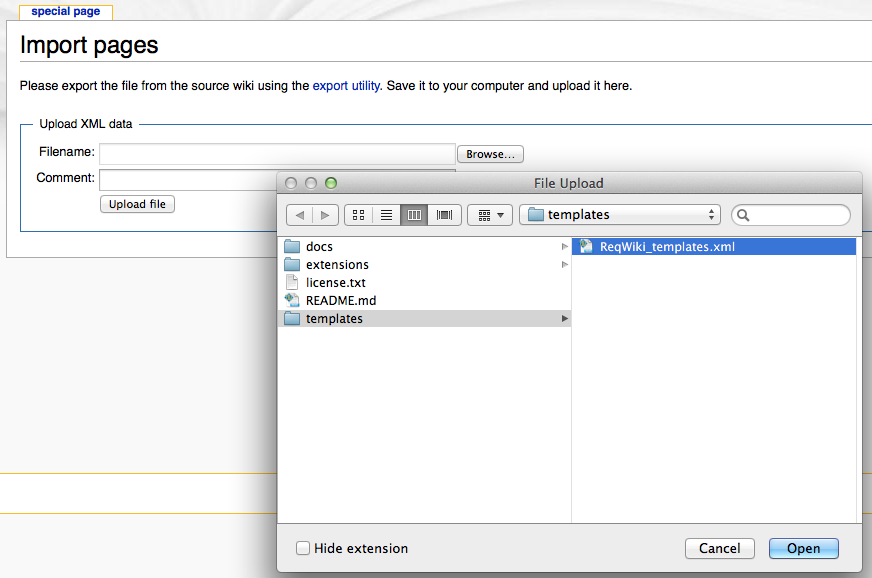
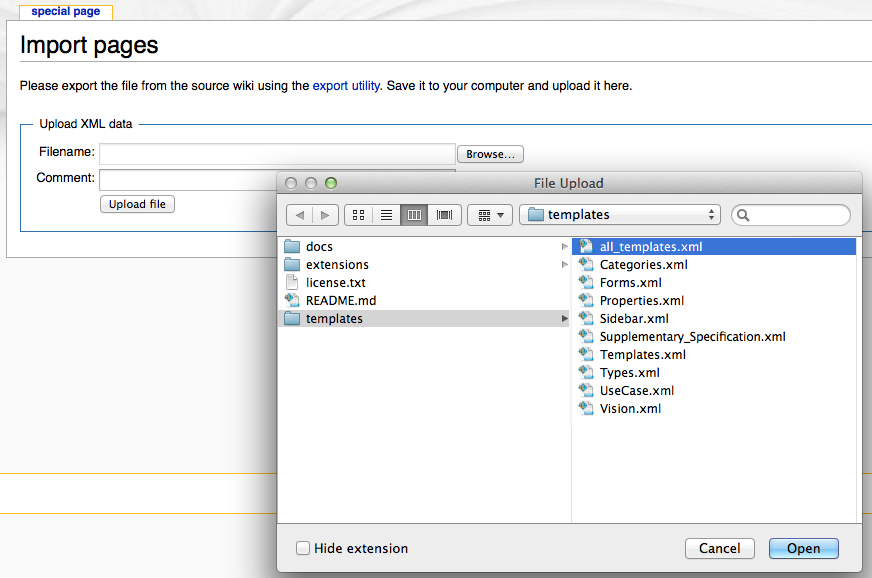
Updating the user guide with the new templates structure #241

Changed region(s): [[0.6502, 0.4048, 0.8979, 0.7163]]

diff --git a/docs/reqwiki_manual.tex b/docs/reqwiki_manual.tex
@@ -356,7 +356,7 @@ include_once("$IP/extensions/SemanticAssistants/SemanticAssistants.php");
 \end{center}
 
 \subsection{ReqWiki Templates}
-After installing the extensions, we need to install ReqWiki customized templates to pre-fill the wiki with top-level pages, forms and semantic properties pertaining to the wiki semantic model. In order to import the templates to your wiki, browse to the special pages of your wiki and click on the ``Import pages'' link under the ``Page tools'' category\footnote{In the default installation of MediaWiki, permission of importing pages to the wiki is limited to users with the ``admin'' role.}. From the ``\texttt{Import XML data}'' box click on the ``\texttt{Browse}'' button and upload the \url{ReqWiki_templates.xml} file located in the \url{templates} folder of your ReqWiki check-out, as shown in Figure~\ref{fig:wiki_template_import}.
+After installing the extensions, we need to install ReqWiki customized templates to pre-fill the wiki with top-level pages, forms and semantic properties pertaining to the wiki semantic model. In order to import the templates to your wiki, browse to the special pages of your wiki and click on the ``Import pages'' link under the ``Page tools'' category\footnote{In the default installation of MediaWiki, permission of importing pages to the wiki is limited to users with the ``admin'' role.}. From the ``\texttt{Import XML data}'' box click on the ``\texttt{Browse}'' button and upload the \url{all_templates.xml} file located in the \url{templates} folder of your ReqWiki check-out, as shown in Figure~\ref{fig:wiki_template_import}. Alternatively, you can import the templates one by one, by choosing the corresponding XML file from the list.
 
 \begin{figure}[h!]
 \centering
